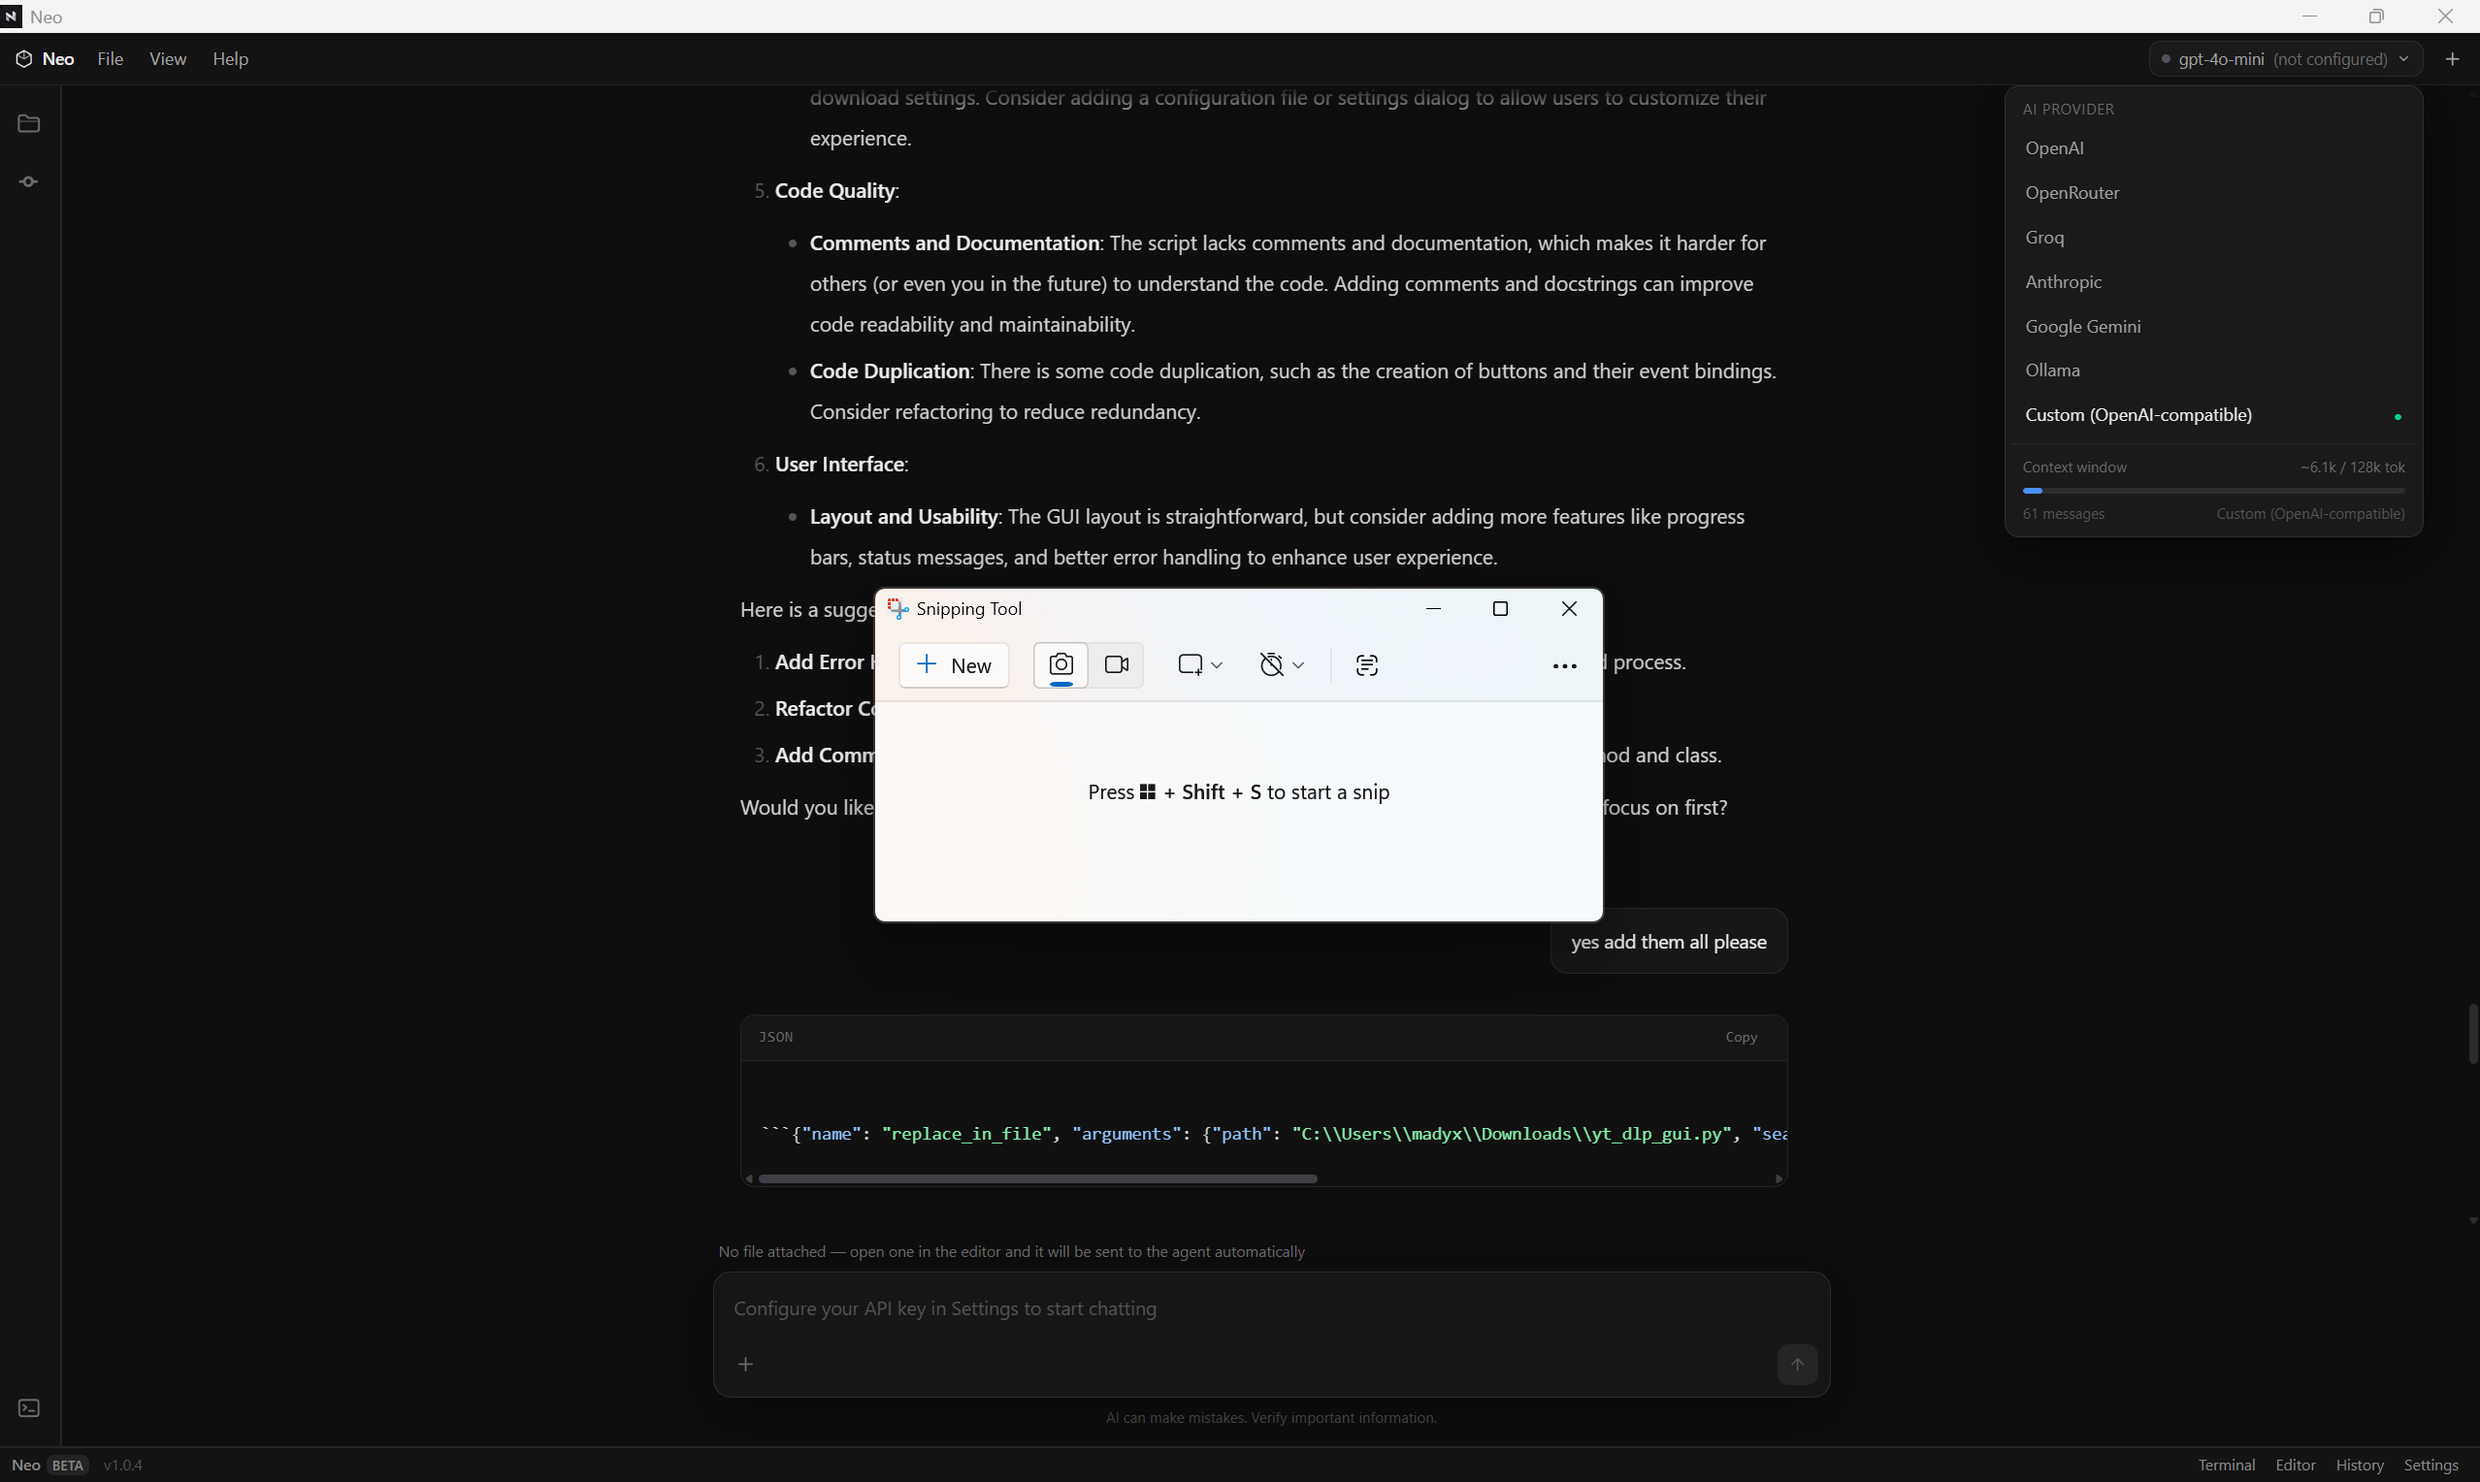
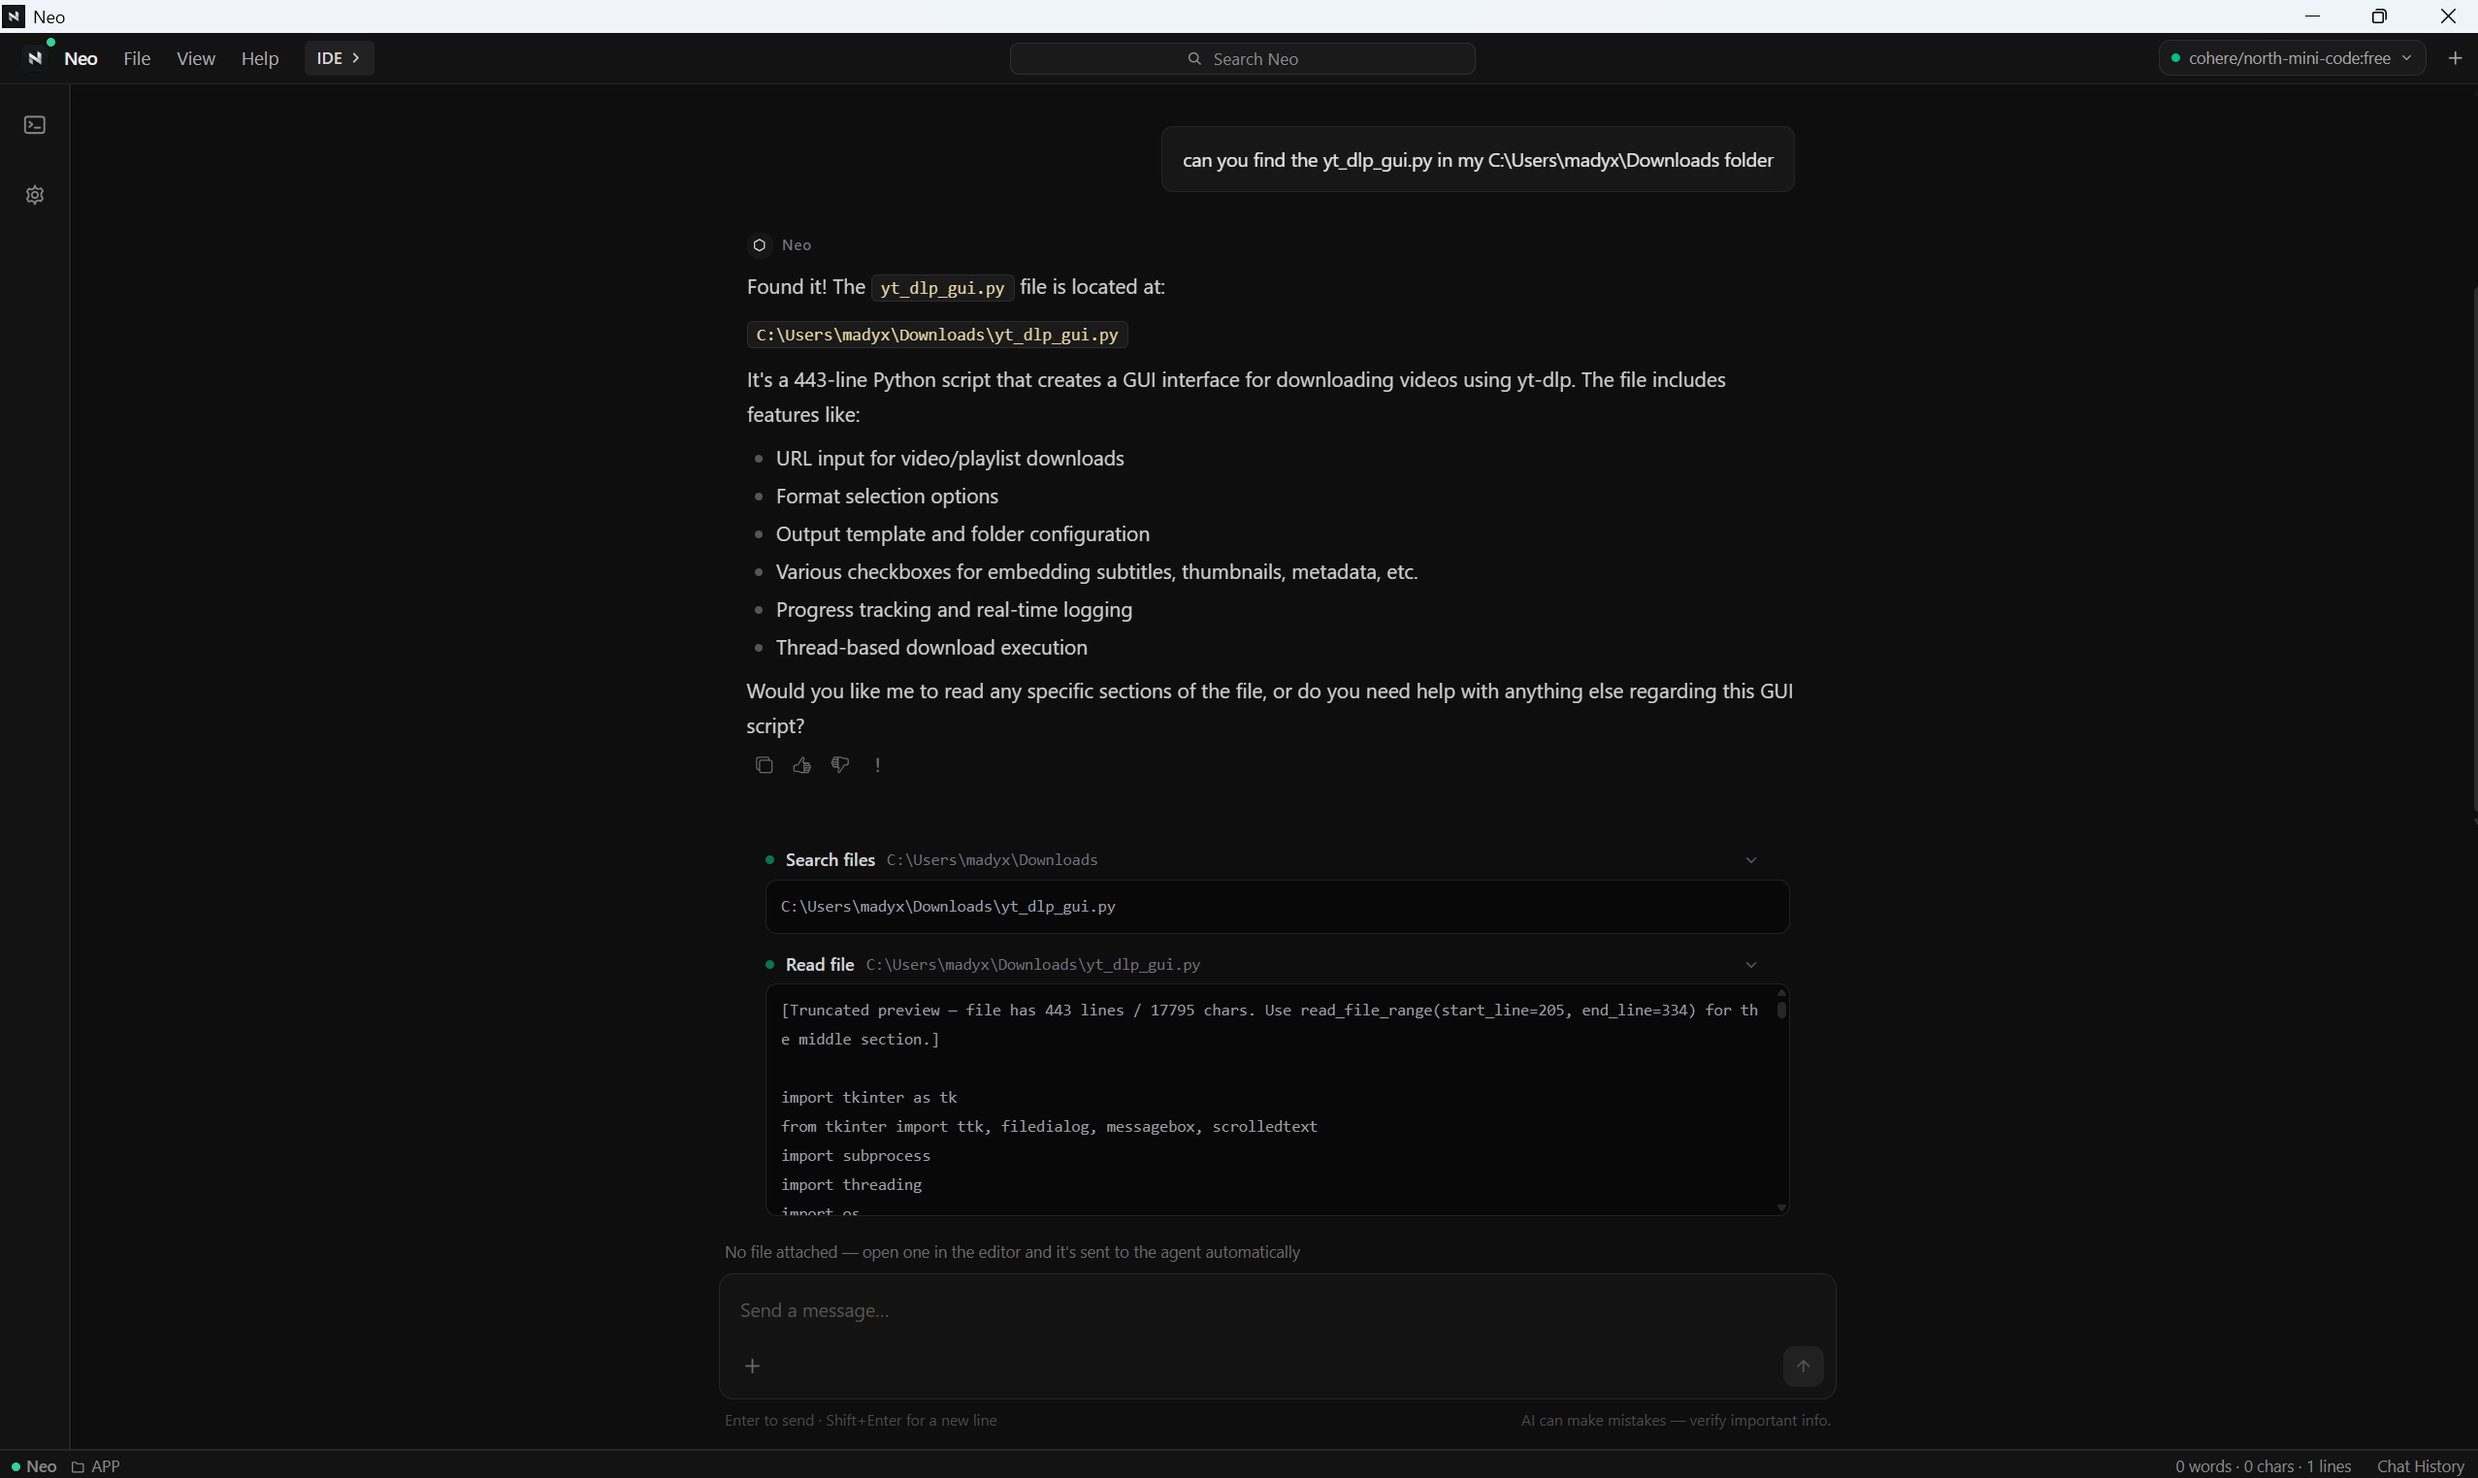
Addition : Downloads page changed and updated

diff --git a/components/About.tsx b/components/About.tsx
@@ -30,10 +30,10 @@ export default function About() {
                 Neo is built around the idea that an agent should be able to work
                 alongside the developer and the project itself.
                 The project is intentionally lightweight as its made from a rust backend unlike electron
-                 which is notoriously known from being Ram intensive even at idle stages
-                to consume a huge amount of resources just to sit open while I'm
-                coding. The goal is for Neo to feel like a development tool first
-                and an AI application second.
+                which is notoriously known from being RAM intensive even at idle stages.
+                I mean come on who wants an app to consume a huge amount of resources just to sit open while
+                coding. The goal is for Neo to feel like a development tool first that is accessible to any hardware as long as the OS is supported.
+                Enjoy!!!
               </p>
             </div>
           </div>

diff --git a/src/App.tsx b/src/App.tsx
@@ -6,7 +6,7 @@ import Navbar from "../components/navbar";
 import Footer from "../components/footer";
 import Downloads from "../components/Downloads";
 import About from "../components/About";
-import testImage from "./assets/TEST004.png";
+import testImage from "./assets/TEST001.png";
 import Contact from "../components/Contact";
 import Documentation from "../components/Documentation"
 export default function App() {

diff --git a/components/Documentation.tsx b/components/Documentation.tsx
@@ -1,6 +1,10 @@
 export default function Documentation() {
   return(
     <div>
+      <div className = "flex-center">
+        <p className = "text-amber-100">Coming soon</p>
+        <p className = "text-amber-100">I need to actually document every stage of this and how it works</p>
+      </div>
       </div>
     );
   }

diff --git a/components/Downloads.tsx b/components/Downloads.tsx
@@ -91,7 +91,7 @@ export default function Downloads() {
                 </h2>
 
                 <span className="rounded-full border border-zinc-700 bg-zinc-800 px-2.5 py-0.5 text-xs font-medium text-zinc-300">
-                  v1.0.5
+                  v1.0.6
                 </span>
               </div>
 
